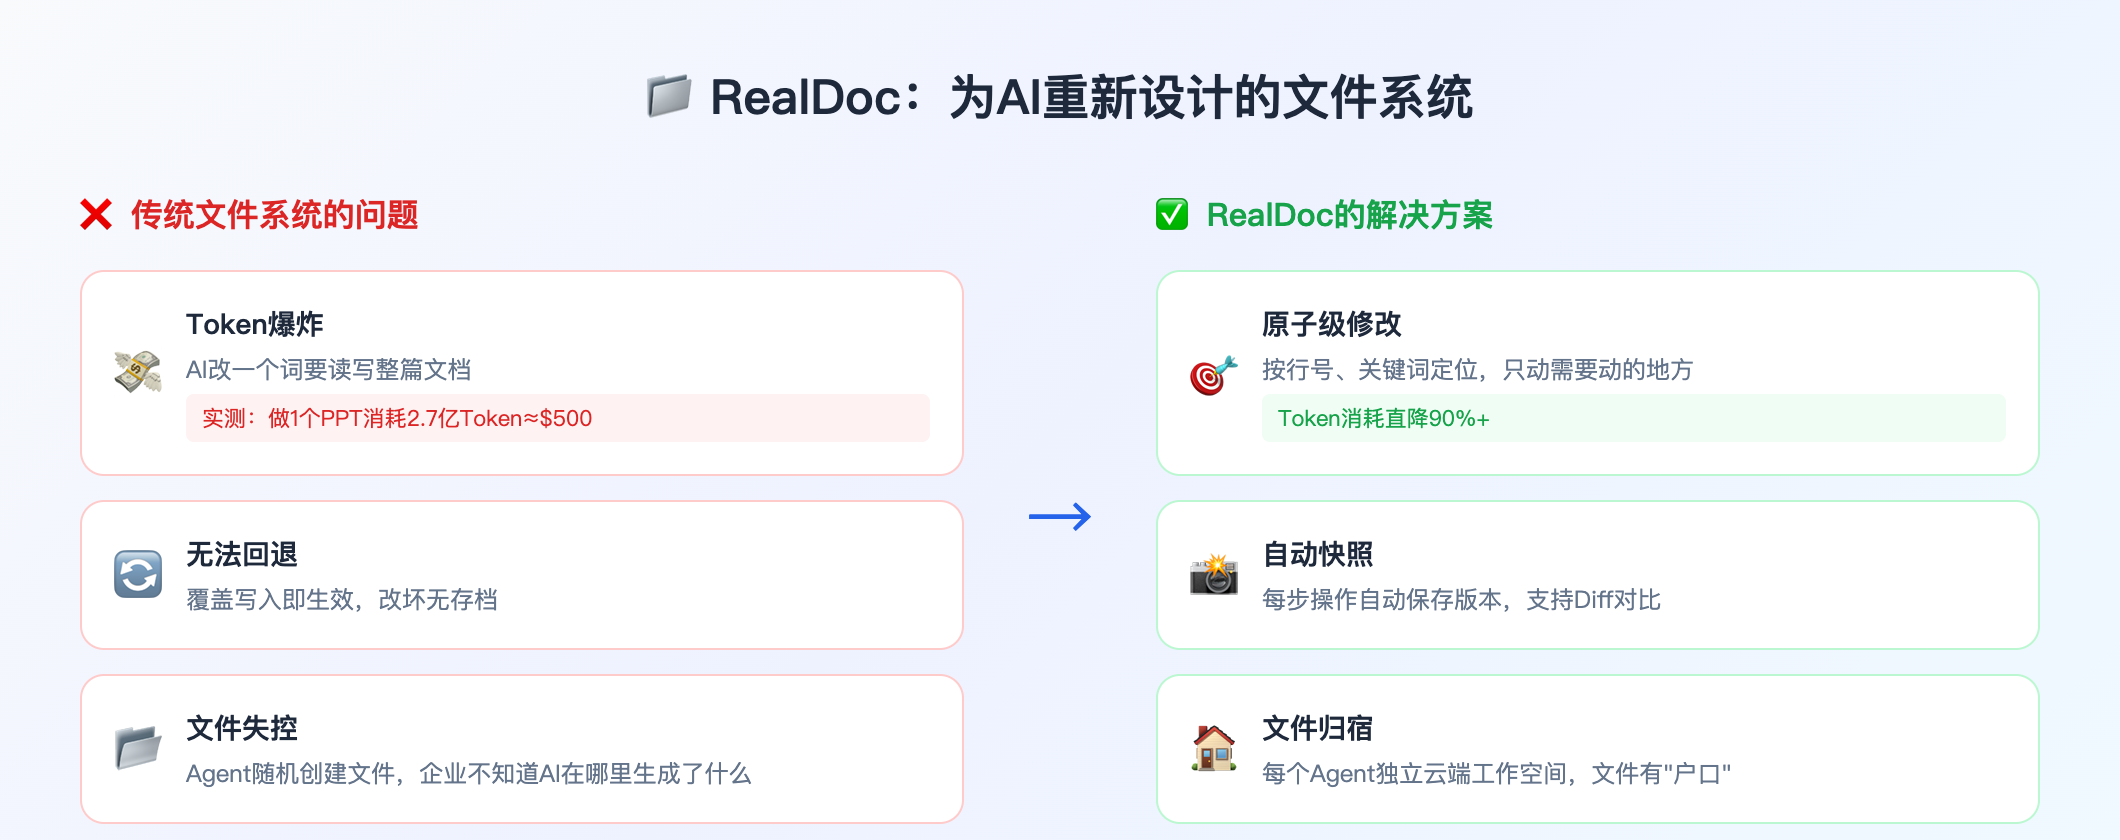
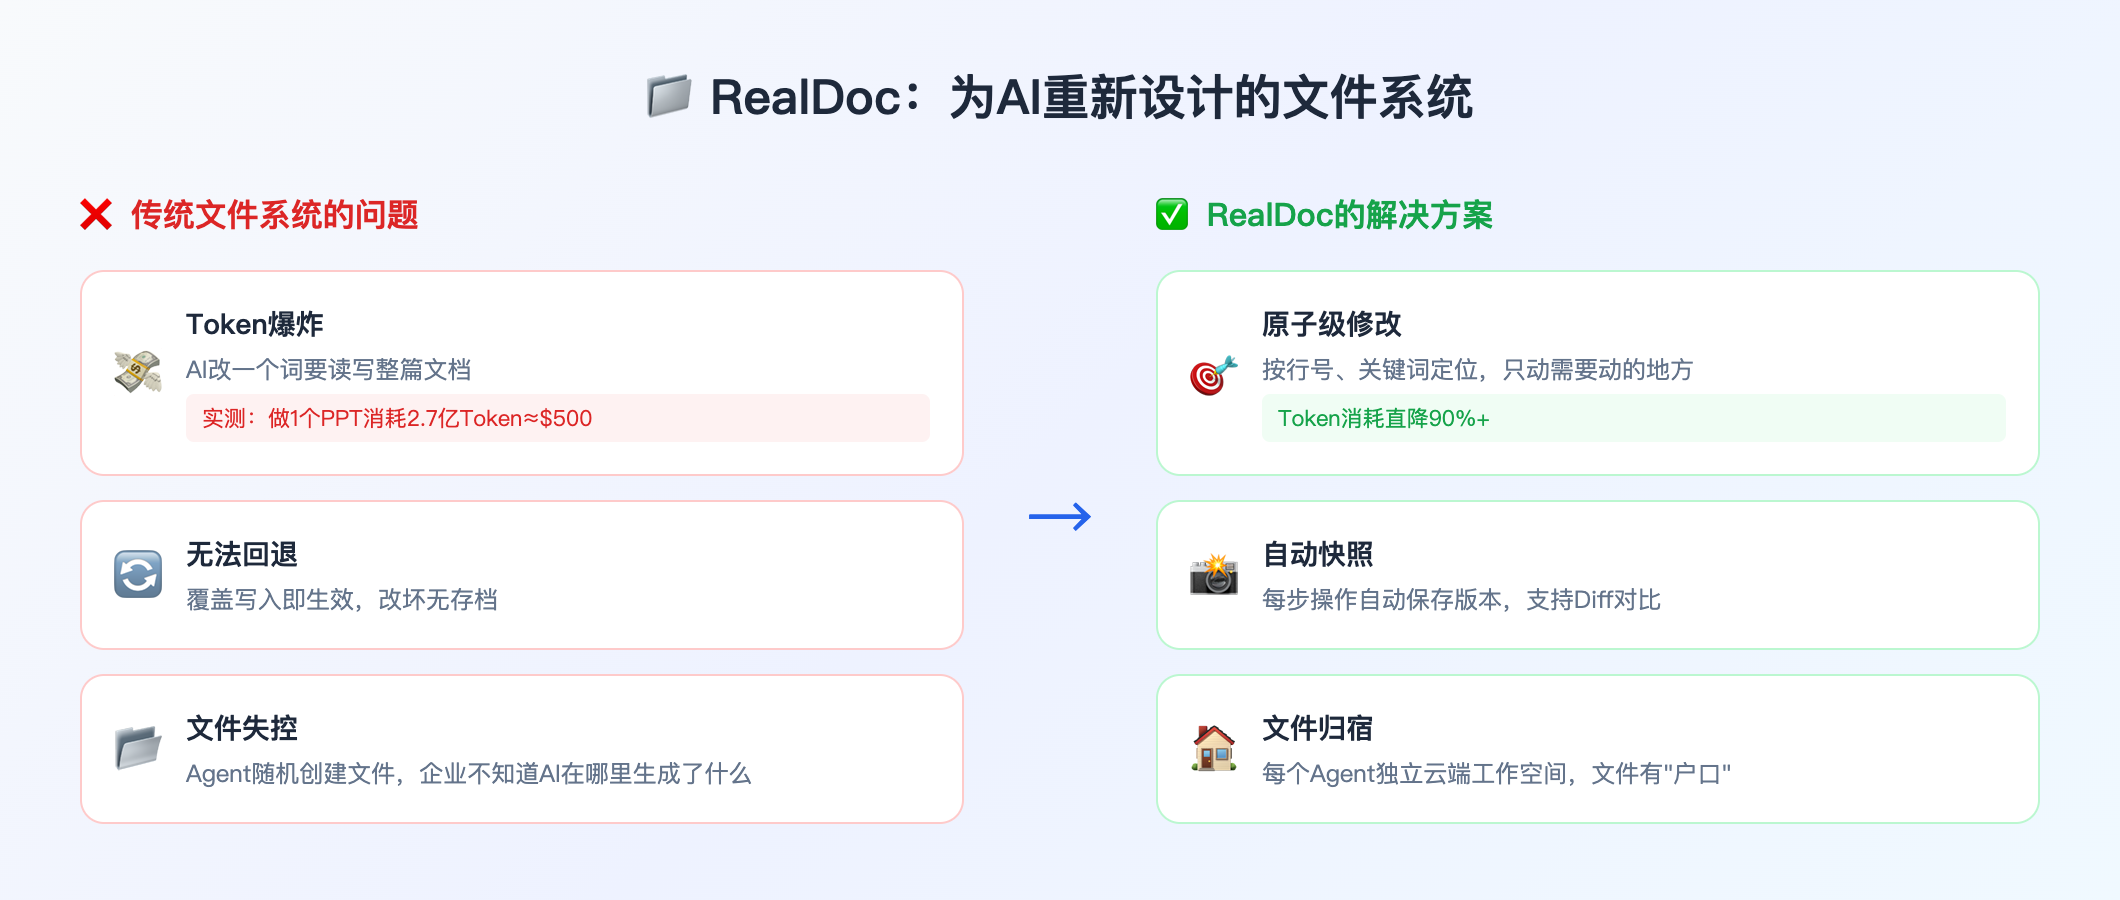
fix: 修复KIM Doc文章截图高度问题
1. 修改标题为：AI产品洞察：与其抄Claw，不如学学悟空，构建更有价值的产品
2. 修复wukong-06-comparison.html高度不足问题（420px→500px）
3. 修复wukong-04-realdoc.html高度不足问题（420px→450px）
4. 重新生成所有7张章节截图

diff --git a/02-deep-research/topics/kim-docs/images/wukong-04-realdoc.html b/02-deep-research/topics/kim-docs/images/wukong-04-realdoc.html
@@ -6,13 +6,13 @@
         * { margin: 0; padding: 0; box-sizing: border-box; }
         html, body { 
             width: 1060px; 
-            height: 420px; 
+            height: 450px; 
             overflow: hidden; 
             font-family: -apple-system, "SF Pro Display", "Noto Sans SC", sans-serif;
         }
         .container {
             width: 1060px;
-            height: 420px;
+            height: 450px;
             background: linear-gradient(135deg, #f8fafc 0%, #eef2ff 50%, #f0f9ff 100%);
             padding: 32px 40px;
         }

diff --git a/02-deep-research/topics/kim-docs/images/wukong-06-comparison.html b/02-deep-research/topics/kim-docs/images/wukong-06-comparison.html
@@ -6,13 +6,13 @@
         * { margin: 0; padding: 0; box-sizing: border-box; }
         html, body { 
             width: 1060px; 
-            height: 420px; 
+            height: 500px; 
             overflow: hidden; 
             font-family: -apple-system, "SF Pro Display", "Noto Sans SC", sans-serif;
         }
         .container {
             width: 1060px;
-            height: 420px;
+            height: 500px;
             background: linear-gradient(135deg, #f8fafc 0%, #eef2ff 50%, #f0f9ff 100%);
             padding: 32px 40px;
         }

diff --git a/02-deep-research/topics/kim-docs/wukong-product-philosophy.md b/02-deep-research/topics/kim-docs/wukong-product-philosophy.md
@@ -1,4 +1,4 @@
-# 企业办公：与其抄Claw，不如学学悟空怎么把龙虾关进笼子
+# AI产品洞察：与其抄Claw，不如学学悟空，构建更有价值的产品
 
 **从"笼中龙虾"看企业级AI Agent的正确建设方式——不是加功能，是重新定义"谁来操作"**
 
